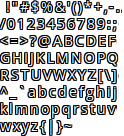
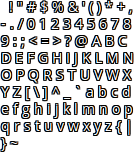
Added text appearance component

diff --git a/library/scripts/spell/system/render.js b/library/scripts/spell/system/render.js
@@ -2,6 +2,7 @@ define(
 	'spell/system/render',
 	[
 		'spell/client/2d/graphics/drawCoordinateGrid',
+		'spell/client/2d/graphics/drawText',
 		'spell/shared/util/Events',
 
 		'spell/math/vec2',
@@ -12,6 +13,7 @@ define(
 	],
 	function(
 		drawCoordinateGrid,
+		drawText,
 		Events,
 
 		vec2,
@@ -77,6 +79,7 @@ define(
 			transforms,
 			appearances,
 			animatedAppearances,
+			textAppearances,
 			childrenComponents,
 			visualObjects,
 			deltaTimeInMs,
@@ -88,7 +91,7 @@ define(
 
 			context.save()
 			{
-				var appearance          = appearances[ id ] || animatedAppearances[ id ],
+				var appearance          = appearances[ id ] || animatedAppearances[ id ] || textAppearances[ id ],
 					asset               = assets[ appearance.assetId ],
 					texture             = resources[ asset.resourceId ],
 					visualObjectOpacity = visualObject.opacity
@@ -106,14 +109,20 @@ define(
 				context.rotate( transform.rotation )
 
 				if( asset.type === 'appearance' ) {
+					// static appearance
 					vec2.multiply( transform.scale, texture.dimensions, tmpVec2 )
 					context.scale( tmpVec2 )
 
 					context.drawTexture( texture, -0.5, -0.5, 1, 1 )
 
-				} else {
-					// asset.type === 'animation'
+				} else if( asset.type === 'font' ) {
+					// text appearance
+					context.scale( transform.scale )
 
+					drawText( context, asset, texture, 0, 0, appearance.text )
+
+				} else if( asset.type === 'animation' ) {
+					// animated appearance
 					var assetFrameDimensions = asset.frameDimensions,
 						assetNumFrames       = asset.numFrames
 
@@ -261,6 +270,7 @@ define(
 				this.transforms,
 				this.appearances,
 				this.animatedAppearances,
+				this.textAppearances,
 				this.childrenComponents,
 				this.visualObjects
 			)
